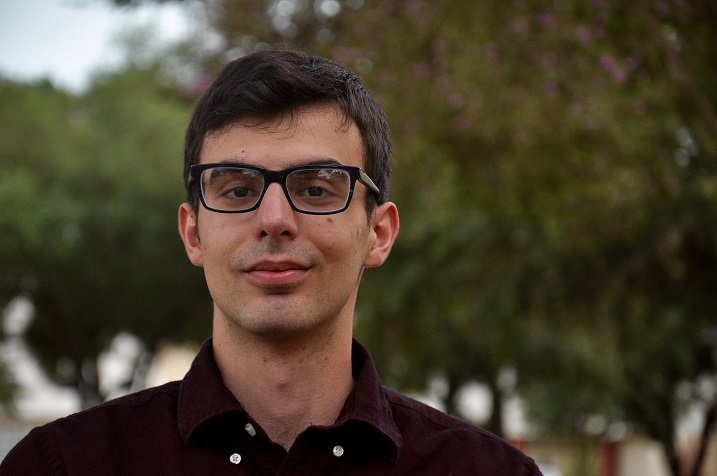
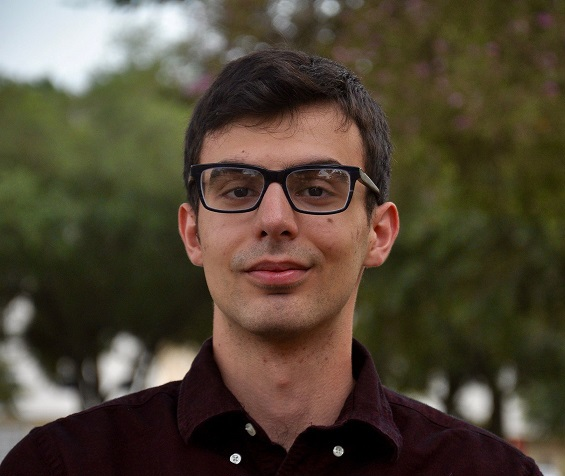
Rewrite copy, refine typography, and swap the main headshot
Copy: rewrite the site in one coherent voice that leads with craft and the
concrete reasons to hire Brian, and cut the repetition that read as filler.

- Home hero: "A read that sounds like it isn't one." with a lead that names the
  conversational-read specialty and the broadcast-ready home studio.
- Demos: describe each reel in production terms instead of recycling the
  "sounds like a person, not an announcer" line (which appeared three times).
- Booking/Contact: replace the "Like what you hear?" cliche with a real ask,
  and make the contact lead actionable (send a script, get reels/rates/turnaround).
- About: sharpen the bio and call out the English/Albanian bilingual range as a
  genuine asset. Every claim stays honest and within known facts.

Typography: keep the Fraunces + Inter system but drop the swashy Fraunces italic
the hero accent used — it read boutique, not professional. The headline is now
upright Fraunces with the accent carried by the oxblood color, and uses a proper
typographic apostrophe. Remove the now-unused Fraunces italic and 400 weights
(only the 600 display weight is used) and their woff2 files.

Headshot: replace the landscape primary headshot with a tighter, better-framed
portrait; update the matching width/height attributes on the hero and gallery.

Claude-Session: https://claude.ai/code/session_014YUpwT4t4w1q2t1iwu9Qwg

diff --git a/index.html b/index.html
@@ -7,14 +7,14 @@
     <title>Brian Bakaj — Voice Actor</title>
     <meta
       name="description"
-      content="Brian Bakaj is an Austin-based voice actor working in commercial and narration. Hear the demos in one click."
+      content="Brian Bakaj is a voice actor in Austin for commercial and narration — a warm, conversational read delivered broadcast-ready from his own studio. Hear the reels."
     />
 
     <meta property="og:type" content="website" />
     <meta property="og:title" content="Brian Bakaj — Voice Actor" />
     <meta
       property="og:description"
-      content="Austin voice actor for commercial and narration. He reads like a person talking to you. Hear the demos."
+      content="Austin voice actor for commercial and narration. A conversational read, delivered broadcast-ready. Hear the reels."
     />
     <meta property="og:image" content="assets/img/headshot.jpg" />
 
@@ -100,12 +100,13 @@
             <div>
               <p class="eyebrow">Voice Actor · Austin, TX</p>
               <h1 class="hero__title" id="hero-title">
-                A voice that sounds<br /><em>like a person.</em>
+                A read that sounds<br /><span class="hero__accent">like it isn&rsquo;t one.</span>
               </h1>
               <p class="lead hero__lead">
-                Brian Bakaj is an Austin-based voice actor working in commercial
-                and narration. He reads like a person talking to you — not an
-                announcer selling at you.
+                Brian Bakaj is an Austin voice actor for commercial and
+                narration. He specializes in the conversational read — the one
+                that makes a listener feel talked to, not sold to — and delivers
+                it broadcast-ready from his own studio.
               </p>
 
               <div class="hero__listen">
@@ -154,7 +155,7 @@
               <img
                 src="assets/img/headshot.jpg"
                 alt="Brian Bakaj, headshot"
-                width="717"
+                width="565"
                 height="476"
               />
             </figure>
@@ -167,10 +168,10 @@
         <div class="container">
           <div class="section__head">
             <p class="eyebrow">Demos</p>
-            <h2 id="demos-title">Two reels, start to finish</h2>
+            <h2 id="demos-title">Two reels, both sides of the range</h2>
             <p class="lead">
-              Press play — the bar at the bottom keeps the audio with you while
-              you look around.
+              Commercial and narration, back to back. Press play, and the bar at
+              the bottom stays with you as you go.
             </p>
           </div>
 
@@ -194,8 +195,8 @@
                   <span class="demo__kicker">Commercial</span>
                   <h3 class="demo__title">Commercial Demo</h3>
                   <p class="demo__desc">
-                    Brand and retail reads — upbeat and believable, the kind of
-                    voice that sounds like a person, not an announcer.
+                    Retail and brand spots — bright and quick on its feet, with
+                    enough polish for broadcast and enough warmth to feel real.
                   </p>
                 </div>
                 <a class="demo__download" href="assets/media/commercial-demo.mp3" download>
@@ -229,8 +230,9 @@
                   <span class="demo__kicker">Narration</span>
                   <h3 class="demo__title">Narration Demo</h3>
                   <p class="demo__desc">
-                    Long-form storytelling, explainer, and corporate narration —
-                    clear and steady, easy to follow from first line to last.
+                    Explainer, corporate, and long-form storytelling — a steady,
+                    clear read that holds attention start to finish and stays out
+                    of the script&rsquo;s way.
                   </p>
                 </div>
                 <a class="demo__download" href="assets/media/narration-demo.mp3" download>
@@ -252,10 +254,11 @@
       <section class="section" aria-labelledby="book-title">
         <div class="container container--narrow book-cta">
           <p class="eyebrow">Booking</p>
-          <h2 class="book-cta__title" id="book-title">Like what you hear?</h2>
+          <h2 class="book-cta__title" id="book-title">Have a script in mind?</h2>
           <p class="lead">
-            Available for commercial, narration, explainer, and corporate work,
-            including remote-directed sessions.
+            Brian records commercial, narration, explainer, and corporate work,
+            and takes direction live on a remote session. Rates and availability
+            on request.
           </p>
           <div class="button-row button-row--center">
             <a class="btn btn--accent" href="contact.html">Get in touch</a>

diff --git a/about.html b/about.html
@@ -7,14 +7,14 @@
     <title>About — Brian Bakaj, Voice Actor</title>
     <meta
       name="description"
-      content="About Brian Bakaj — an Austin-based voice actor working in commercial and narration, recording from a home studio on a Shure SM7B."
+      content="About Brian Bakaj — an Austin voice actor for commercial and narration, recording broadcast-ready on a Shure SM7B and working in both English and Albanian."
     />
 
     <meta property="og:type" content="website" />
     <meta property="og:title" content="About — Brian Bakaj, Voice Actor" />
     <meta
       property="og:description"
-      content="An Austin voice actor for commercial and narration. Home studio, Shure SM7B, English and Albanian."
+      content="An Austin voice actor for commercial and narration. Broadcast-ready home studio, Shure SM7B, English and Albanian."
     />
     <meta property="og:image" content="assets/img/headshot.jpg" />
 
@@ -95,8 +95,8 @@
           <p class="eyebrow">About</p>
           <h1 class="page-hero__title" id="about-title">About Brian</h1>
           <p class="lead">
-            An Austin voice actor working in commercial and narration, recording
-            from a dedicated home studio.
+            A conversational voice with real range — and a home studio built to
+            deliver it fast.
           </p>
         </div>
       </section>
@@ -107,16 +107,17 @@
           <div class="about__grid">
             <div class="prose">
               <p>
-                Brian is a voice actor based in Austin, Texas. He works mainly in
-                commercial and narration, and he's drawn to the conversational
-                take — the one that sounds less like a performance and more like a
-                real person reading.
+                Brian is a voice actor based in Austin, Texas, working mainly in
+                commercial and narration. He&rsquo;s drawn to the read that
+                doesn&rsquo;t announce itself — the take that sounds unrehearsed,
+                like someone thinking out loud instead of reciting a script.
               </p>
               <p>
-                He records from a home studio on a Shure SM7B and turns around
-                broadcast-ready files quickly, and he's comfortable taking
-                direction live on a remote session. He voices in English and
-                Albanian.
+                He records on a Shure SM7B in a dedicated home studio and turns
+                broadcast-ready files around quickly; he&rsquo;s just as
+                comfortable being directed live on a remote session. He voices in
+                both English and Albanian — a real asset for bilingual and
+                international scripts.
               </p>
             </div>
 
@@ -164,7 +165,7 @@
           <div class="shots">
             <figure><img src="assets/img/brian-look-01.jpg" alt="Brian Bakaj, portrait" width="707" height="952" loading="lazy" /></figure>
             <figure><img src="assets/img/brian-look-02.jpg" alt="Brian Bakaj, portrait" width="736" height="919" loading="lazy" /></figure>
-            <figure><img src="assets/img/headshot.jpg" alt="Brian Bakaj, outdoor headshot" width="717" height="476" loading="lazy" /></figure>
+            <figure><img src="assets/img/headshot.jpg" alt="Brian Bakaj, outdoor headshot" width="565" height="476" loading="lazy" /></figure>
           </div>
         </div>
       </section>

diff --git a/assets/fonts/fonts.css b/assets/fonts/fonts.css
@@ -3,22 +3,6 @@
 
 @font-face {
   font-family: 'Fraunces';
-  font-style: italic;
-  font-weight: 500;
-  font-display: swap;
-  src: url('fraunces-500-italic.woff2') format('woff2');
-}
-
-@font-face {
-  font-family: 'Fraunces';
-  font-style: normal;
-  font-weight: 400;
-  font-display: swap;
-  src: url('fraunces-400-normal.woff2') format('woff2');
-}
-
-@font-face {
-  font-family: 'Fraunces';
   font-style: normal;
   font-weight: 600;
   font-display: swap;

diff --git a/contact.html b/contact.html
@@ -7,14 +7,14 @@
     <title>Contact — Brian Bakaj, Voice Actor</title>
     <meta
       name="description"
-      content="Book Brian Bakaj for commercial, narration, explainer, and corporate voiceover, including remote-directed sessions."
+      content="Book Brian Bakaj for commercial, narration, explainer, and corporate voiceover, with live remote direction on request."
     />
 
     <meta property="og:type" content="website" />
     <meta property="og:title" content="Contact — Brian Bakaj, Voice Actor" />
     <meta
       property="og:description"
-      content="Book Brian Bakaj for commercial and narration voiceover. Remote-directed sessions on request."
+      content="Book Brian Bakaj for commercial and narration voiceover. Live remote direction on request."
     />
     <meta property="og:image" content="assets/img/headshot.jpg" />
 
@@ -94,8 +94,10 @@
           <p class="eyebrow">Contact</p>
           <h1 class="contact__title" id="contact-title">Book a session</h1>
           <p class="lead">
-            Available for commercial, narration, explainer, and corporate work,
-            including remote-directed sessions.
+            Available for commercial, narration, explainer, and corporate
+            voiceover, with live remote direction on request. Send a script or a
+            few details, and Brian will follow up with reels, rates, and
+            turnaround.
           </p>
 
           <div class="contact__actions button-row button-row--center">

diff --git a/assets/css/layout.css b/assets/css/layout.css
@@ -173,8 +173,7 @@ body.player-active {
   font-optical-sizing: auto;
 }
 
-.hero__title em {
-  font-style: italic;
+.hero__accent {
   color: rgb(var(--color-accent));
 }
 